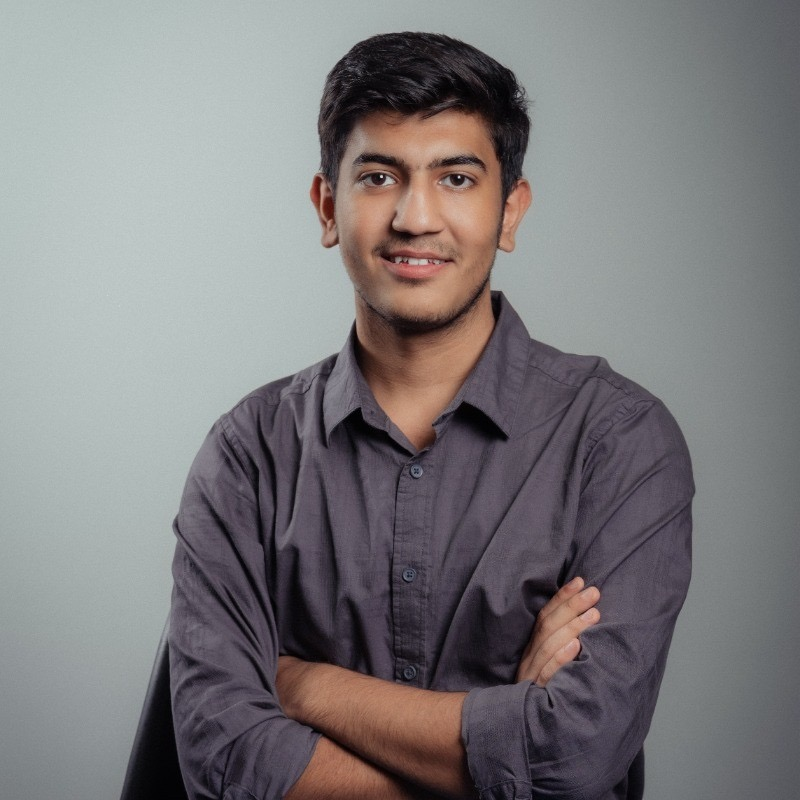
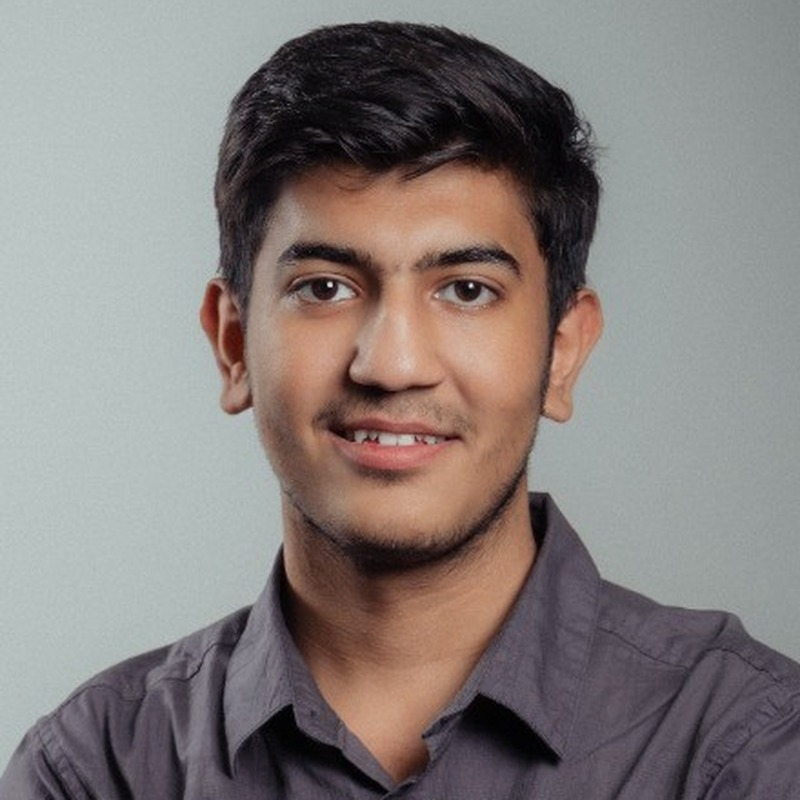
Tighten portrait crop, Andrew-style glyph mapping, fix contribution count
Head-and-shoulders crop doubles facial detail; ink-equals-darkness ramp
with gamma midtone rolloff leaves skin blank so features pop; portrait
now renders in terminal gray. Contributions use the calendar total only
(adding restrictedContributionsCount double-counted private activity).

diff --git a/scripts/generate_ascii.py b/scripts/generate_ascii.py
@@ -147,7 +147,11 @@ def map_to_chars(
 ) -> list[str]:
     """Turn the character-grid luminance into fixed-width ASCII rows."""
     ramp = params.ramp(theme)
-    indices = (arr / 256.0 * len(ramp)).astype(int).clip(0, len(ramp) - 1)
+    # gamma > 1 lifts midtones toward the sparse end of the ramp, keeping
+    # skin near-blank so only genuinely dark features (hair, eyes, brows,
+    # outlines) get ink — the classic hand-drawn ASCII-portrait look.
+    lum = (arr / 255.0).clip(0.0, 1.0) ** (1.0 / params.gamma)
+    indices = (lum * len(ramp)).astype(int).clip(0, len(ramp) - 1)
     rows: list[str] = []
     for y in range(arr.shape[0]):
         chars = []

diff --git a/scripts/common.py b/scripts/common.py
@@ -42,6 +42,7 @@ class AsciiParams:
     bg_saturation: float
     bg_lum_floor: int
     min_region: int
+    gamma: float
     edge_threshold: int
     edge_char: str
     contrast_cutoff: float
